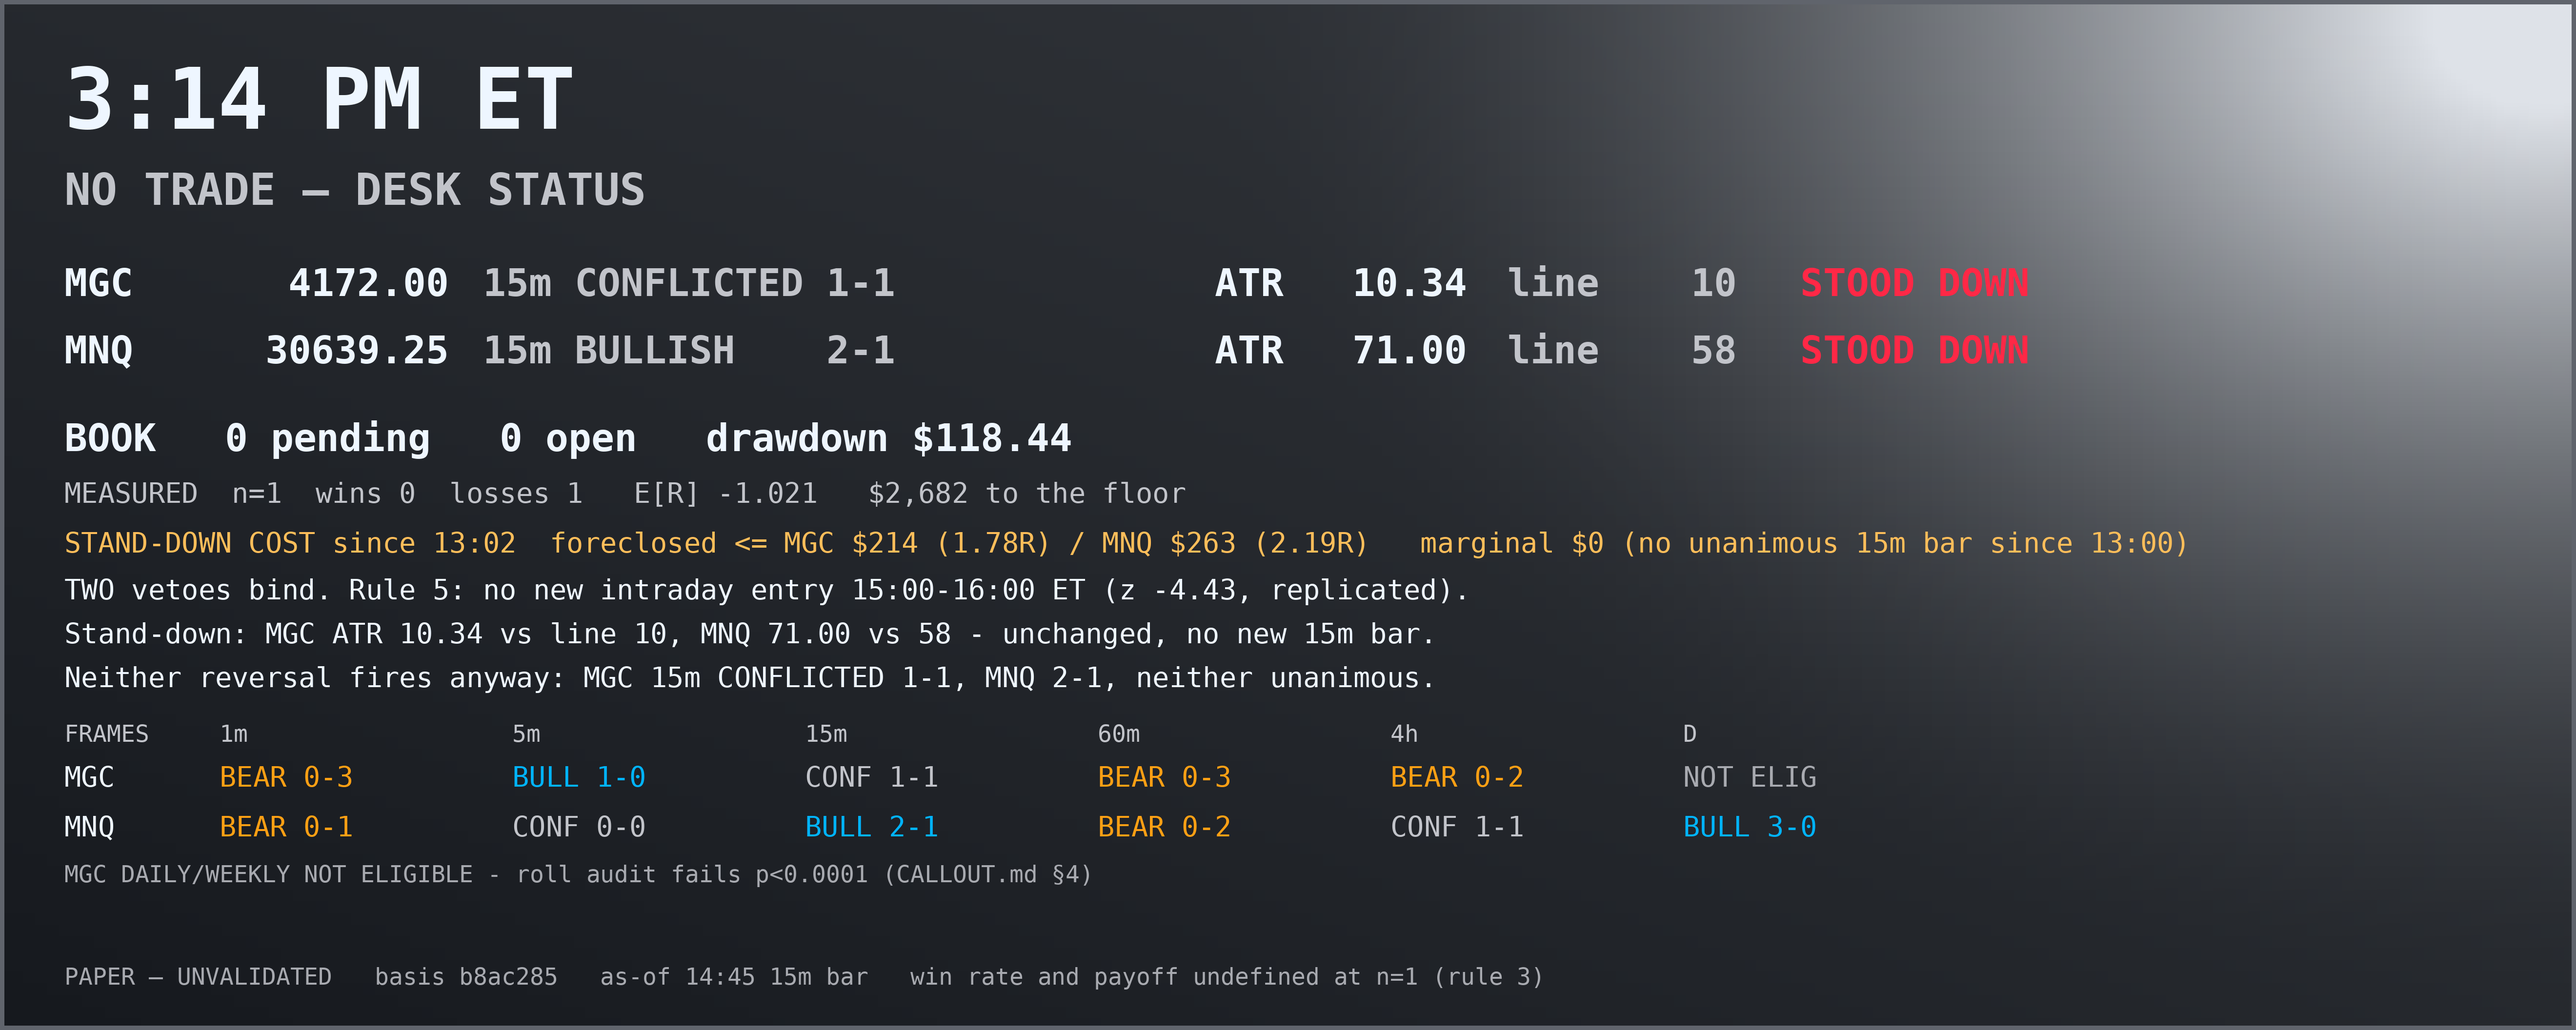
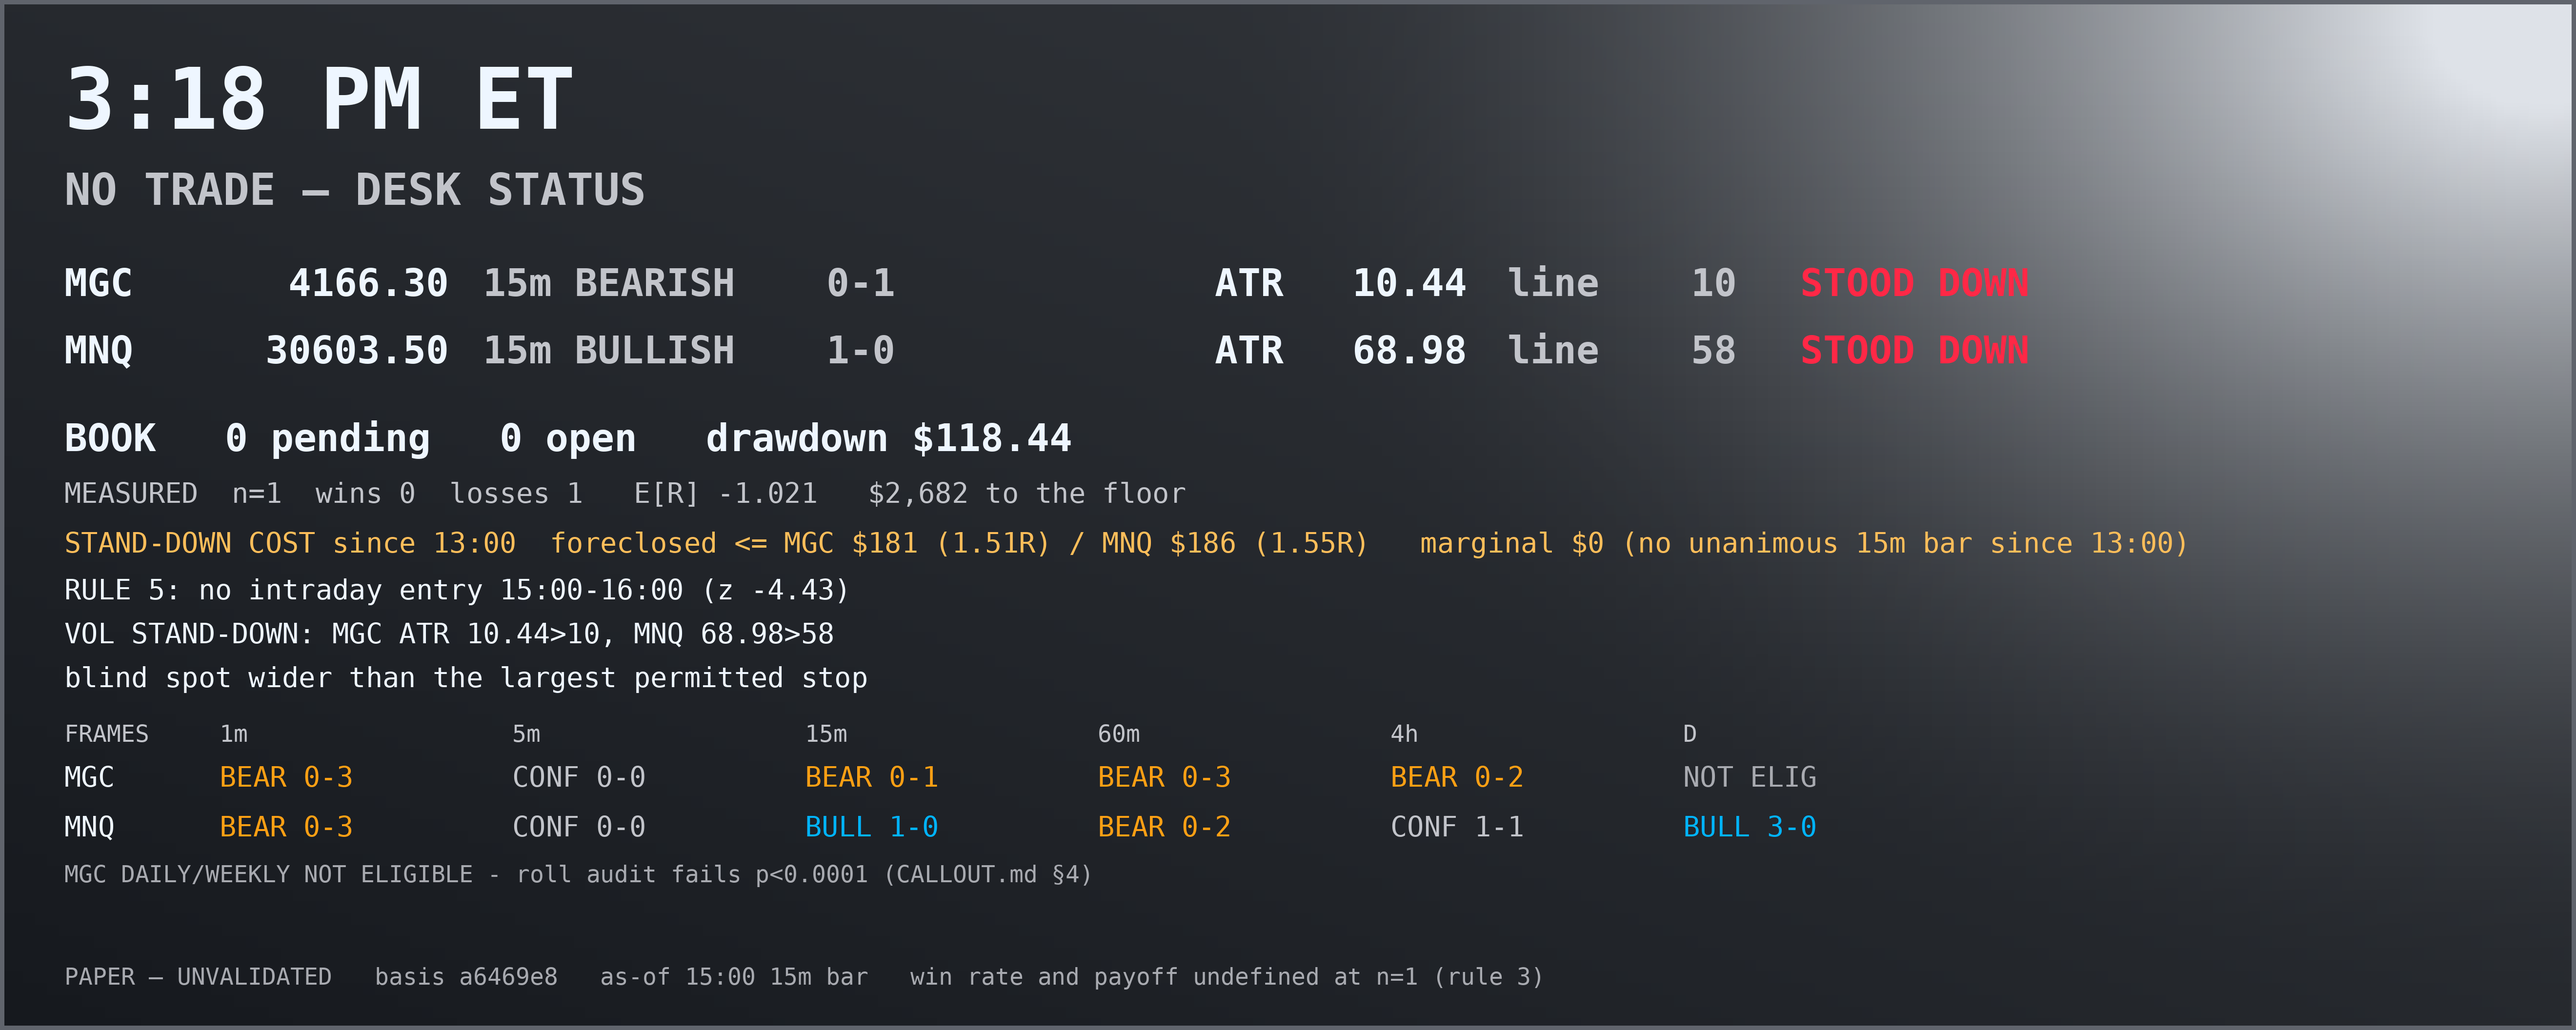
CALL desk: 15:17 - new 5m 15:05 and 15m 15:00 bars, lag 12.2m; both ATRs re-measured and both vetoes bind
Claude-Session: https://claude.ai/code/session_01EE6PFk7fGa2tM4KP6dpfWD

diff --git a/workspace/paper/CALL/DECISIONS.md b/workspace/paper/CALL/DECISIONS.md
@@ -53,6 +53,7 @@ the second is how a veto flatters itself and quoting only the first is how a tra
 | 11 | 14:48 | **DECISIONS.md created** — refusals priced (N218) | — | made visible that the morning's "extended move" refusals cost **$902/$805 per contract** while the stand-down I quote hourly has cost **$0 marginal** | — |
 | 13 | 14:57 | **Card background → diagonal with a radial hotspot in the top-right corner** (owner) | — | still grey, still cannot read as a direction; ink is now **sampled from the rendered background across each text run**, because with the light in one corner a y-only rule mis-colours every right-hand column and a single-point sample loses any string that starts dark and ends in the glow | — |
 | 12 | 14:52 | **Status card → silver gradient** (owner) | — | stays inside CALLOUT.md's grey NO TRADE family, so it still cannot be read as a direction; first render failed contrast in the mid-band and was fixed before sending | — |
+| 14 | 15:17 | **Stand-down held on both symbols** — MGC ATR14 10.44 > 10, MNQ 68.98 > 58; rule 5 also binds to 16:00 | foreclosed since 13:00 ≤ **MGC $181 (1.51R) / MNQ $186 (1.55R)** — full favourable excursion, not a profit I would have taken | **$0 marginal** — no unanimous 15m bar printed since 13:00, so no setup I would have entered was refused | — |
 
 ### What the tally actually says
 
